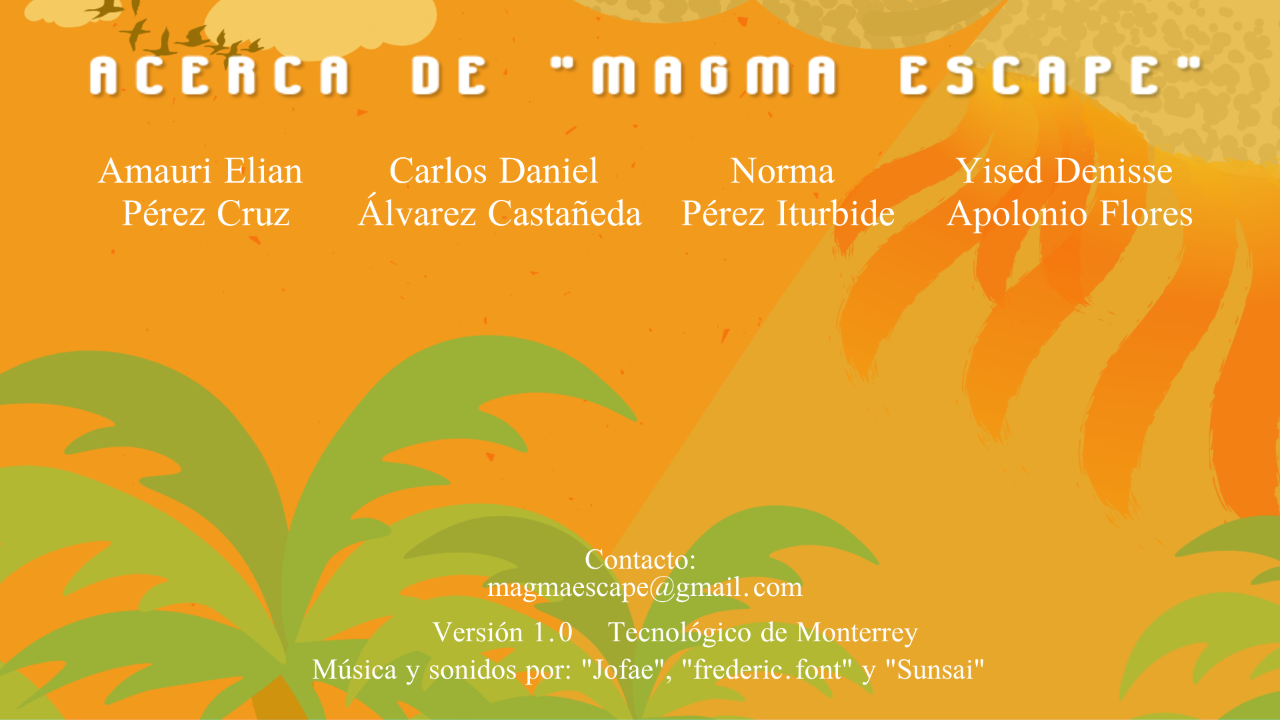
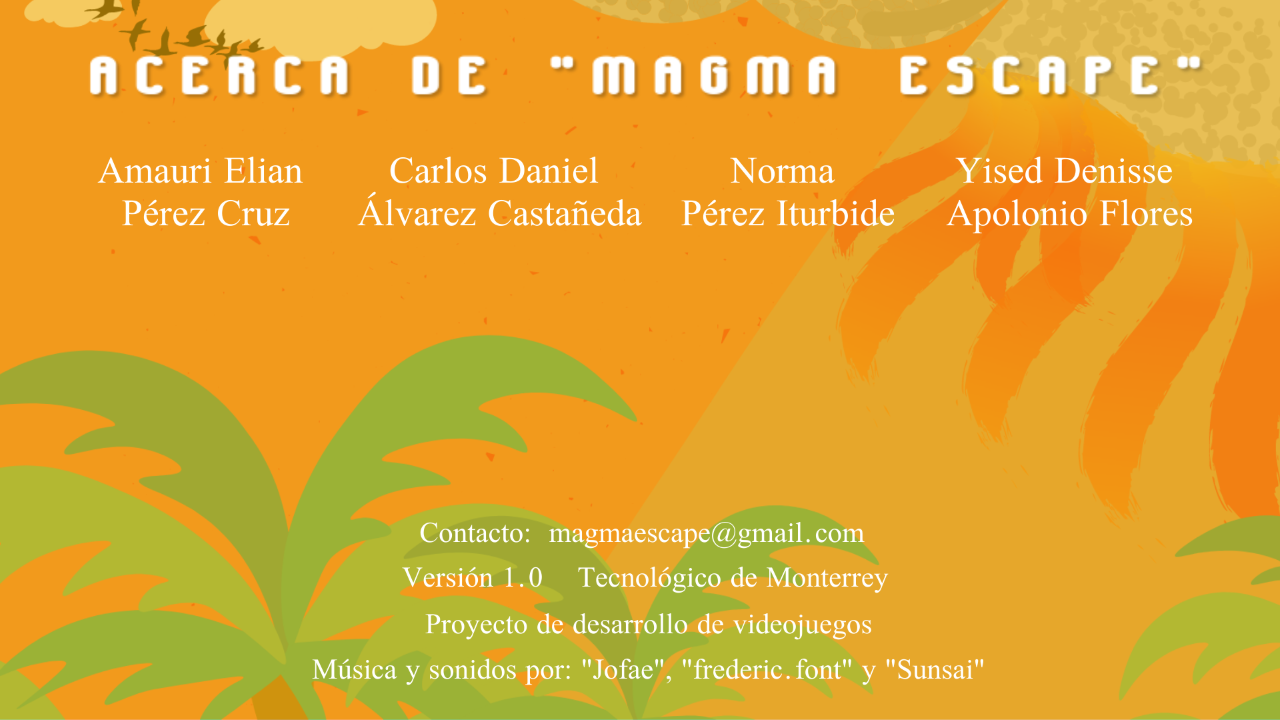
Modificacion animacion peces, correccion pantalla historia y modificacion pantalla AcercaDe

Changed region(s): [[0.3125, 0.7333, 0.7188, 0.9167]]

diff --git a/core/src/com/itesm/magmaescape/PantallaNivel1.java b/core/src/com/itesm/magmaescape/PantallaNivel1.java
@@ -98,7 +98,7 @@ public class PantallaNivel1 extends Pantalla {
     }
 
     private void crearPeces() {
-        texturaPeces = new Texture("nivel1/peces.png");
+        texturaPeces = new Texture("nivel1/pez.png");
         arrPeces = new Array<>();
     }
 
@@ -113,7 +113,7 @@ public class PantallaNivel1 extends Pantalla {
 
     private void crearFondo(){
 
-        texturaFondo = new Texture("nivel1/fondNivel1.jpg");
+        texturaFondo = new Texture("nivel1/fondoNivel1.png");
     }
 
     private void crearAshes() {
@@ -210,23 +210,21 @@ public class PantallaNivel1 extends Pantalla {
     }
 
     private void actualizarPeces(float delta) {
-        //Crear Cajas de Fuego
+        //Crear peces
         timerCrearPez += delta;
         if (timerCrearPez >= TIEMPO_CREAR_PEZ) {
             timerCrearPez = 0;
             //Crear elemento
             float xPez = MathUtils.random(ANCHO, ANCHO*1.5F);
-            com.itesm.magmaescape.Pez pez = new com.itesm.magmaescape.Pez(texturaPeces, xPez, ALTO/15);
+            com.itesm.magmaescape.Pez pez = new com.itesm.magmaescape.Pez(texturaPeces, xPez, ALTO/17);
             arrPeces.add(pez);
         }
         //Mover los elementos (peces)
-        //for (Caja caja : arrCajas){
-
         for (int i=arrPeces.size-1; i>=0; i--){
             Pez pez =arrPeces.get(i);
             pez.moverIzquierda(delta);
             //Prueba si la caja debe desaparecer, porque salió de la pantalla
-            if (pez.sprite.getX() < -60) {
+            if (pez.sprite.getX() < -95) {
                 arrPeces.removeIndex(i);
             }
         }

diff --git a/core/src/com/itesm/magmaescape/PantallaHistoriaFinal.java b/core/src/com/itesm/magmaescape/PantallaHistoriaFinal.java
@@ -33,7 +33,7 @@ public class PantallaHistoriaFinal extends Pantalla {
     private void crearHistoriaFinal() {
         escenaMenu=new Stage(vista);
 
-        texturaFondo=new Texture("acercaDe/historiaFinal.png");
+        texturaFondo=new Texture("acercaDe/historiaFin.png");
         //Boton REGRESAR HISTORIA INICIAL
         Button btnRegresar=crearBoton("configuracion/button_regresar.png", "configuracion/button_regresar-2.png");
         btnRegresar.setPosition(ANCHO/6,ALTO/6, Align.center);

diff --git a/core/src/com/itesm/magmaescape/Pez.java b/core/src/com/itesm/magmaescape/Pez.java
@@ -18,7 +18,7 @@ public class Pez extends Objeto {
 
     public Pez(Texture textura, float x, float y) {
         TextureRegion region = new TextureRegion(textura);
-        TextureRegion[][] texturas = region.split(128,60);
+        TextureRegion[][] texturas = region.split(96,45);
 
         //Crear la animacion
         TextureRegion[] arrFrames = { texturas[0][0], texturas[0][1]};
